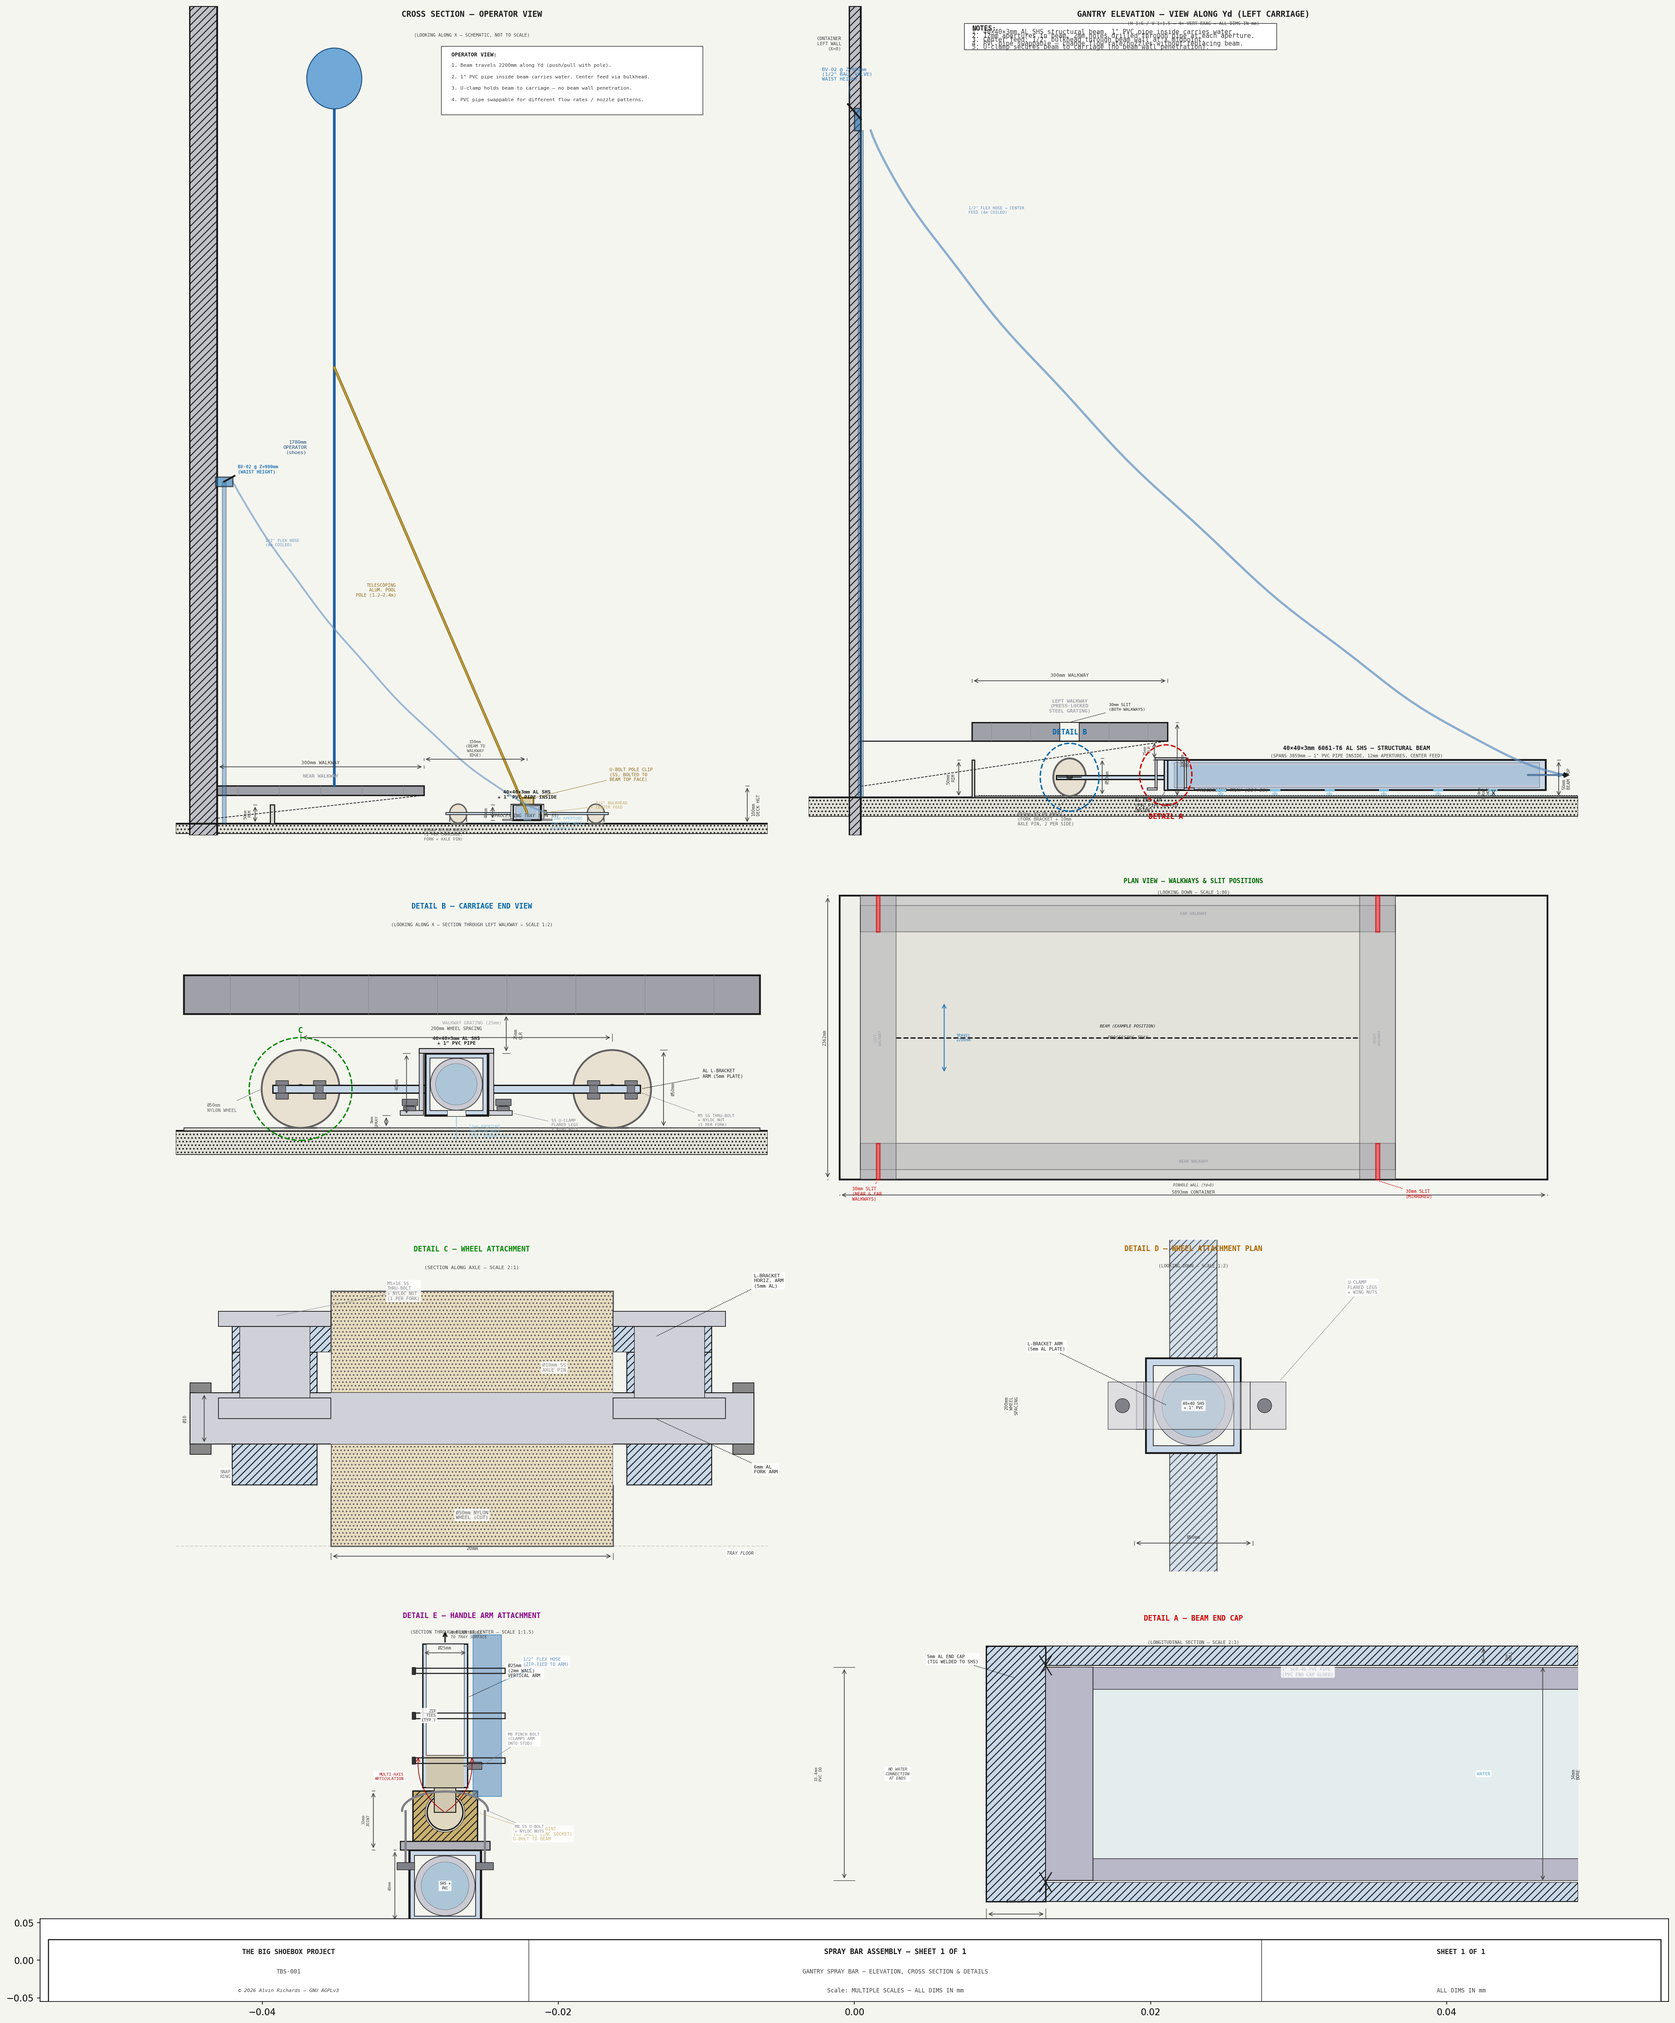
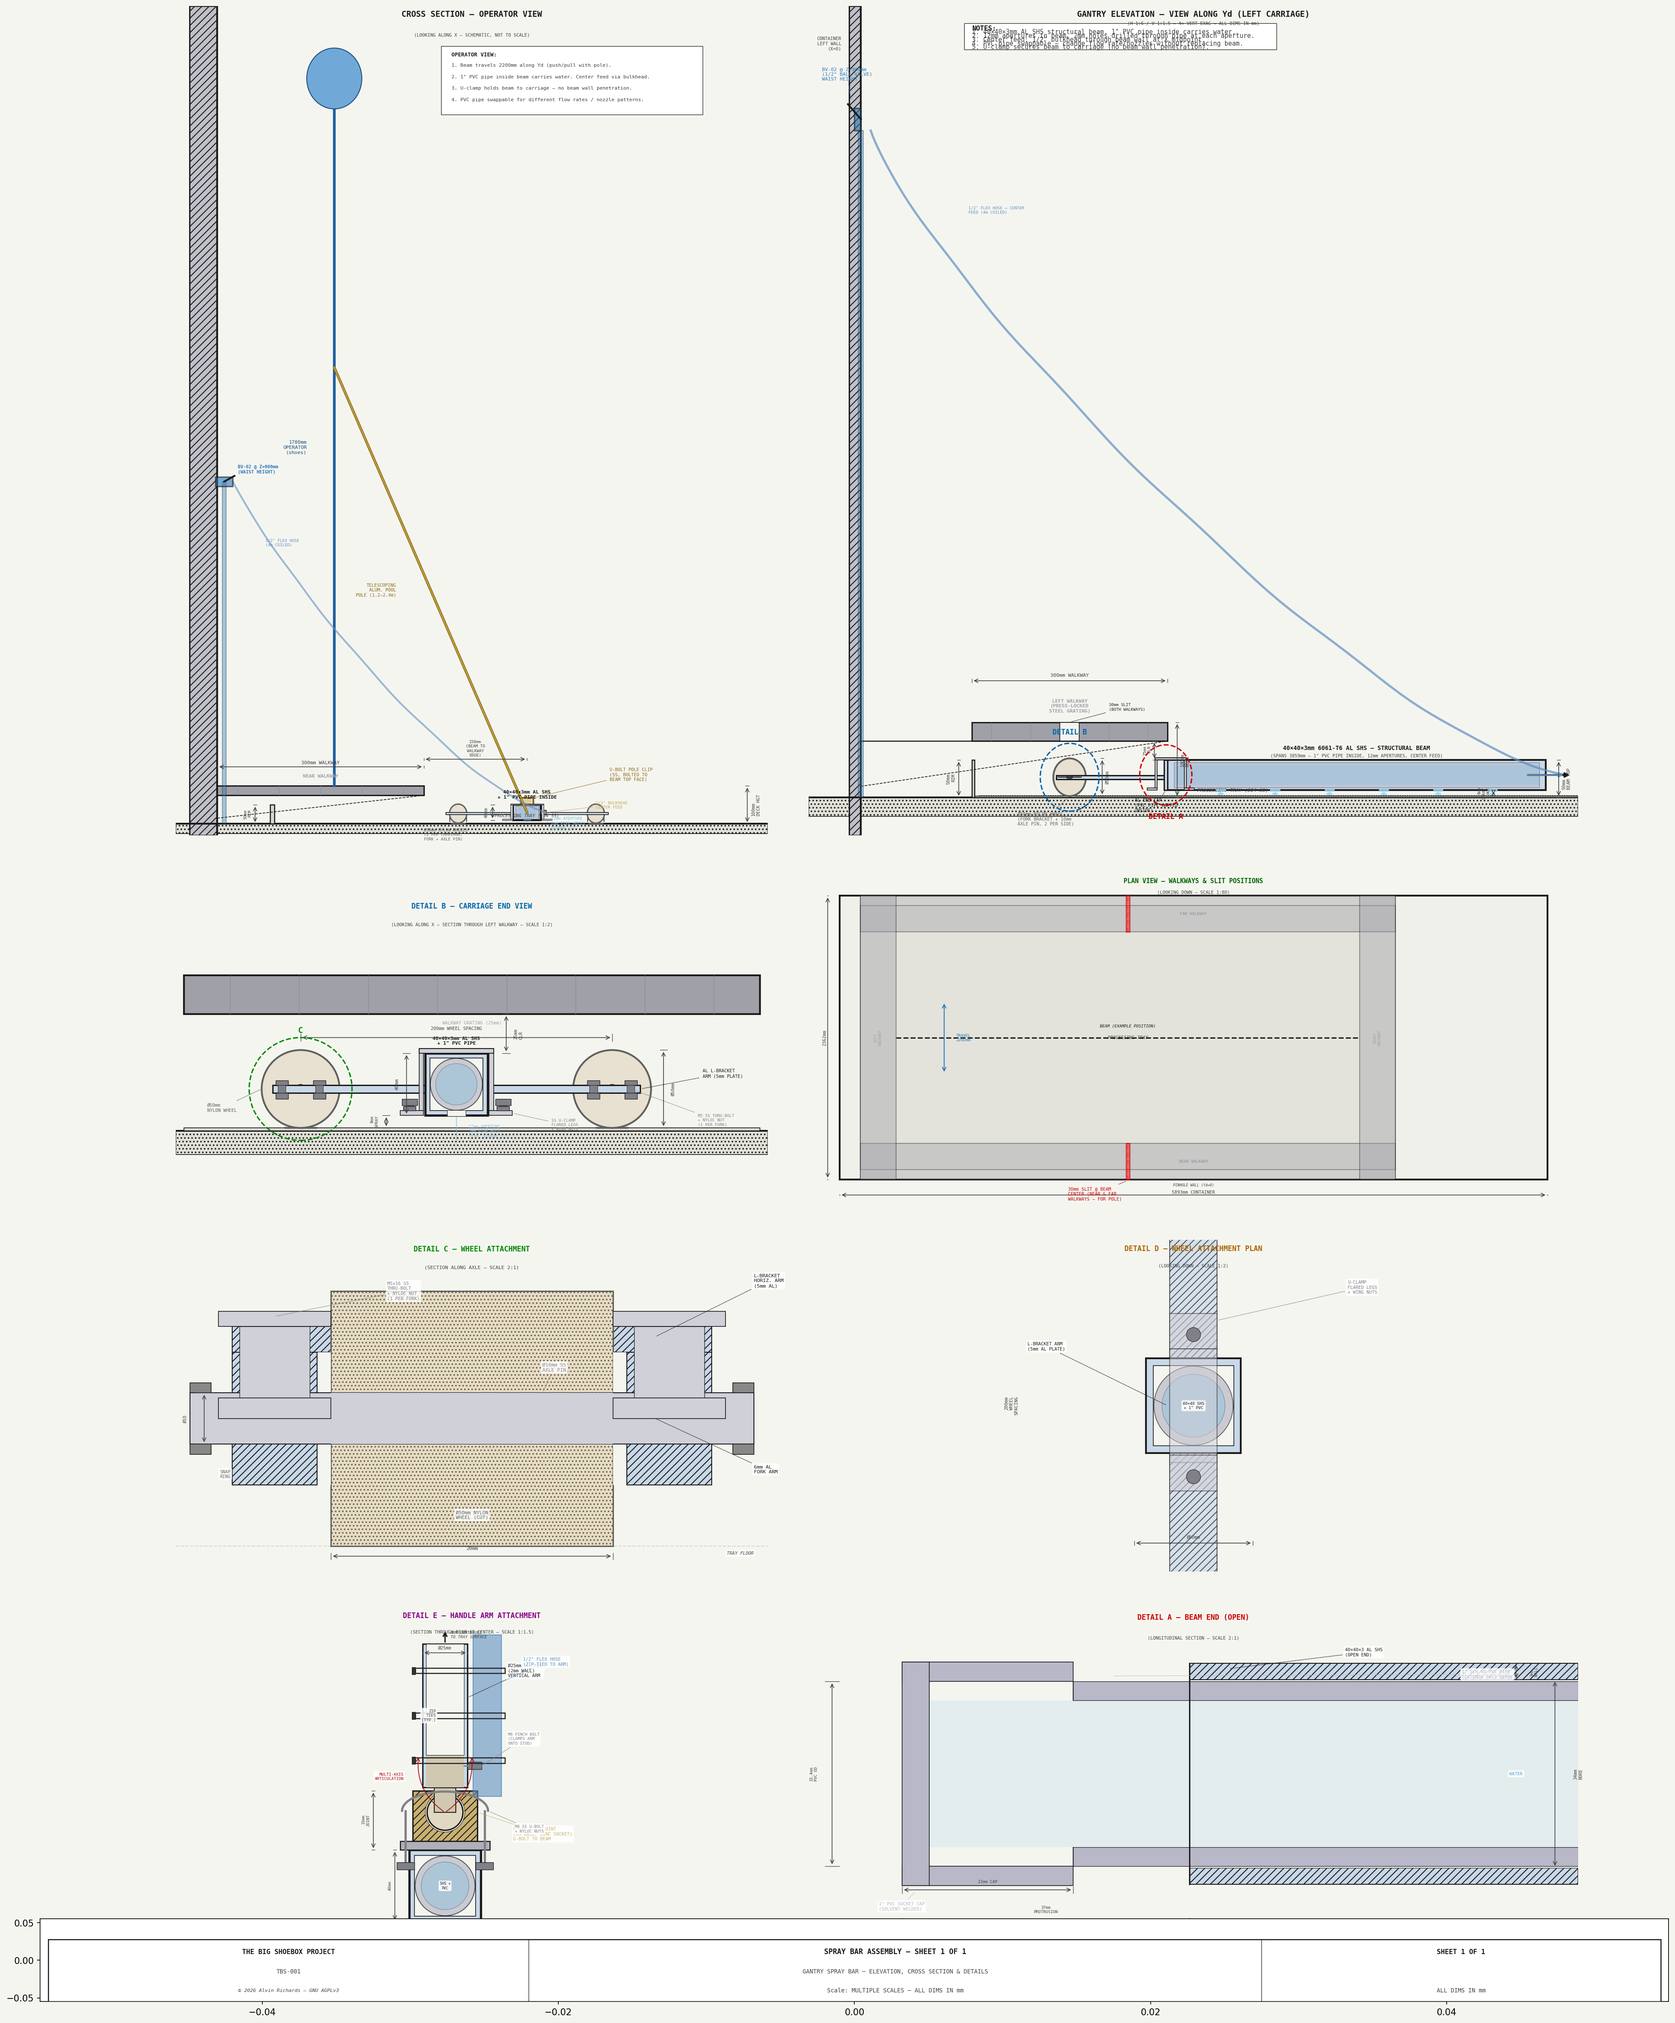
Detail A: open-ended beam with PVC socket cap; Detail D: fix U-clamp orientation; plan view: slits at beam center X on near/far walkways

diff --git a/generate_spray_bar_diagram.py b/generate_spray_bar_diagram.py
@@ -454,22 +454,33 @@ ax.text(sx(carr_cx), sz(carr_cz + 55),
 
 
 # ─────────────────────────────────────────────────────────────────────────────
-# Detail A: Beam end cap (longitudinal section)
-# Water now feeds at center — end is simply capped (no fitting).
-# X: along beam axis, - = outside, + = inside (bore)
+# Detail A: Beam end — open SHS with PVC pipe extending beyond
+# PVC socket cap fits over pipe OD, so pipe + cap protrude past beam end.
+# X: along beam axis, - = outside (past beam end), + = inside (bore)
 # Y: perpendicular to beam axis, 0 = beam centerline
 # ─────────────────────────────────────────────────────────────────────────────
 ax_a = fig.add_subplot(gs[3, 1])
 ax_a.set_facecolor(C_BG)
 ax_a.axis("off")
 
-d_xl, d_xr = -15, 50
-d_yb, d_yt = -26, 26
+PVC_CAP_LEN = 22        # socket cap engagement length over pipe OD
+PVC_CAP_WALL = 3.5      # cap wall thickness (thicker than pipe wall)
+PVC_EXTEND = 15         # pipe extension past beam end (before cap)
+pvc_od_h = PVC_OD / 2
+pvc_id_h = PVC_ID / 2
+cap_od_h = pvc_od_h + PVC_CAP_WALL
+
+beam_end_x = 0          # beam ends at X=0
+pipe_end_x = beam_end_x - PVC_EXTEND           # pipe sticks out
+cap_end_x = pipe_end_x - PVC_CAP_LEN           # cap extends further
+
+d_xl, d_xr = cap_end_x - 12, 50
+d_yb, d_yt = -30, 30
 ax_a.set_xlim(d_xl, d_xr)
 ax_a.set_ylim(d_yb, d_yt)
 
 ax_a.text((d_xl + d_xr) / 2, d_yt - 1,
-          "DETAIL A — BEAM END CAP",
+          "DETAIL A — BEAM END (OPEN)",
           ha="center", va="top", fontsize=8, color="#CC0000",
           fontweight="bold", **FONT, zorder=20)
 ax_a.text((d_xl + d_xr) / 2, d_yt - 5,
@@ -480,63 +491,78 @@ ax_a.text((d_xl + d_xr) / 2, d_yt - 5,
 _bbox_a = dict(boxstyle="round,pad=0.3", fc="white", ec="none", alpha=0.85)
 
 # ── SHS top wall — cut section, hatched ──────────────────────────────────
-ax_a.add_patch(Rectangle((5, 17), d_xr - 5, 3,
+ax_a.add_patch(Rectangle((beam_end_x, 17), d_xr - beam_end_x, 3,
                fc=C_ALUM_FILL, ec=C_FRAME, lw=1.0, hatch="///", zorder=3))
 # ── SHS bottom wall — cut section, hatched ───────────────────────────────
-ax_a.add_patch(Rectangle((5, -20), d_xr - 5, 3,
+ax_a.add_patch(Rectangle((beam_end_x, -20), d_xr - beam_end_x, 3,
                fc=C_ALUM_FILL, ec=C_FRAME, lw=1.0, hatch="///", zorder=3))
 
-# ── AL end cap plate (X=0–5, full SHS height, welded to SHS) ────────────
-ax_a.add_patch(Rectangle((0, -20), 5, 40,
-               fc=C_ALUM_FILL, ec=C_FRAME, lw=1.5, hatch="///", zorder=4))
-# Weld symbols at cap-to-SHS joint
-for wy in [17, -17]:
-    ax_a.plot([4.5, 5.5], [wy - 1.5, wy + 1.5],
-              color=C_FRAME, lw=1.2, zorder=6)
-    ax_a.plot([4.5, 5.5], [wy + 1.5, wy - 1.5],
-              color=C_FRAME, lw=1.2, zorder=6)
+# ── Open beam end face (vertical line at X=0) ───────────────────────────
+ax_a.plot([beam_end_x, beam_end_x], [-20, 20],
+          color=C_FRAME, lw=1.5, zorder=5)
 
-# ── Square bore ──────────────────────────────────────────────────────────
-ax_a.add_patch(Rectangle((5, -17), d_xr - 5, 34,
+# ── Square bore inside beam ──────────────────────────────────────────────
+ax_a.add_patch(Rectangle((beam_end_x, -17), d_xr - beam_end_x, 34,
                fc=C_BG, ec=C_FRAME, lw=0.5, zorder=3.5))
 
-# ── PVC pipe inside bore ─────────────────────────────────────────────────
-pvc_od_h = PVC_OD / 2
-pvc_id_h = PVC_ID / 2
-# PVC pipe walls (top and bottom in section)
-ax_a.add_patch(Rectangle((5, pvc_id_h), d_xr - 5, PVC_WALL,
+# ── PVC pipe inside bore + extending past beam end ──────────────────────
+# Top wall
+ax_a.add_patch(Rectangle((pipe_end_x, pvc_id_h), d_xr - pipe_end_x, PVC_WALL,
                fc=C_PVC, ec=C_FRAME, lw=0.6, zorder=4))
-ax_a.add_patch(Rectangle((5, -pvc_od_h), d_xr - 5, PVC_WALL,
+# Bottom wall
+ax_a.add_patch(Rectangle((pipe_end_x, -pvc_od_h), d_xr - pipe_end_x, PVC_WALL,
                fc=C_PVC, ec=C_FRAME, lw=0.6, zorder=4))
+# Pipe end face
+ax_a.plot([pipe_end_x, pipe_end_x], [-pvc_od_h, -pvc_id_h],
+          color=C_FRAME, lw=0.8, zorder=5)
+ax_a.plot([pipe_end_x, pipe_end_x], [pvc_id_h, pvc_od_h],
+          color=C_FRAME, lw=0.8, zorder=5)
 
-# PVC end cap (glued)
-ax_a.add_patch(Rectangle((5, -pvc_od_h), 4, PVC_OD,
-               fc=C_PVC, ec=C_FRAME, lw=0.8, zorder=4.5))
+# ── PVC socket cap (slides over pipe OD) ────────────────────────────────
+# Cap top wall
+ax_a.add_patch(Rectangle((cap_end_x, pvc_od_h),
+               PVC_CAP_LEN, PVC_CAP_WALL,
+               fc=C_PVC, ec=C_FRAME, lw=0.8, zorder=5))
+# Cap bottom wall
+ax_a.add_patch(Rectangle((cap_end_x, -cap_od_h),
+               PVC_CAP_LEN, PVC_CAP_WALL,
+               fc=C_PVC, ec=C_FRAME, lw=0.8, zorder=5))
+# Cap closed end (the actual cap face)
+ax_a.add_patch(Rectangle((cap_end_x, -cap_od_h),
+               PVC_CAP_WALL, cap_od_h * 2,
+               fc=C_PVC, ec=C_FRAME, lw=0.8, zorder=5.5))
 
-# Water inside PVC pipe
-ax_a.add_patch(Rectangle((9, -pvc_id_h), d_xr - 9, PVC_ID,
+# ── Water inside PVC pipe ────────────────────────────────────────────────
+# Water fills from cap end to bore end (entire pipe interior)
+water_start = cap_end_x + PVC_CAP_WALL
+ax_a.add_patch(Rectangle((water_start, -pvc_id_h),
+               d_xr - water_start, PVC_ID,
                fc=C_WATER, ec="none", alpha=0.15, zorder=3.8))
 
 # ── Labels ────────────────────────────────────────────────────────────────
-leader(ax_a, 2.5, 15, -5, d_yt - 8,
-       "5mm AL END CAP\n(TIG WELDED TO SHS)",
+leader(ax_a, beam_end_x + 5, 19, beam_end_x + 20, d_yt - 8,
+       "40×40×3 AL SHS\n(OPEN END)",
        fs=5, color=C_FRAME, font=FONT, zorder=20, bbox=_bbox_a)
 
-leader(ax_a, 7, pvc_od_h, 25, d_yt - 10,
-       "1\" Sch 40 PVC PIPE\n(PVC END CAP GLUED)",
+leader(ax_a, pipe_end_x + 5, pvc_od_h + 1, d_xr - 15, d_yt - 12,
+       "1\" Sch 40 PVC PIPE\n(EXTENDS PAST BEAM)",
+       fs=5, color=C_PVC, font=FONT, zorder=20, bbox=_bbox_a)
+
+leader(ax_a, cap_end_x + PVC_CAP_WALL / 2, -cap_od_h - 1,
+       cap_end_x - 3, d_yb + 6,
+       "1\" PVC SOCKET CAP\n(SOLVENT WELDED)",
        fs=5, color=C_PVC, font=FONT, zorder=20, bbox=_bbox_a)
 
 ax_a.text(d_xr - 8, 0, "WATER",
           ha="center", va="center", fontsize=5, color=C_WATER,
           fontweight="bold", bbox=_bbox_a, **FONT, zorder=15)
 
-ax_a.text((d_xl + 0) / 2, 0, "NO WATER\nCONNECTION\nAT ENDS",
-          ha="center", va="center", fontsize=4.5, color=C_DIM,
-          style="italic", bbox=_bbox_a, **FONT, zorder=15)
-
 # ── Dimensions ────────────────────────────────────────────────────────────
-draw_dim_h(ax_a, 0, 5, d_yb + 4,
-           "5mm CAP", offset=3, fs=5, font=FONT)
+draw_dim_h(ax_a, cap_end_x, beam_end_x, d_yb + 3,
+           f"{PVC_EXTEND + PVC_CAP_LEN}mm\nPROTRUSION", offset=3, fs=4.5, font=FONT)
+
+draw_dim_h(ax_a, cap_end_x, pipe_end_x, d_yb + 9,
+           f"{PVC_CAP_LEN}mm CAP", offset=2, fs=4.5, font=FONT)
 
 draw_dim_v(ax_a, d_xr - 3, -17, 17,
            "34mm\nBORE", offset=4, fs=5, font=FONT, right=True)
@@ -1337,30 +1363,29 @@ ax_d.add_patch(Rectangle((px(-arm_w_x / 2), py_d(-arm_half_span)),
                            fc=C_ALUM_FILL, ec=C_FRAME, lw=1.0,
                            hatch="///", alpha=0.7, zorder=4))
 
-# ── U-clamp with flared legs (plan view — wraps beam in X direction) ────
-uc_span_x = BEAM_W + 2 * UC_T + 2 * UC_GAP   # top plate span in X
-uc_mat_yd = 20                                  # clamp material width in Yd
-# Top plate (visible from above — spans X across beam)
-ax_d.add_patch(Rectangle((px(-uc_span_x / 2), py_d(-uc_mat_yd / 2)),
-                           uc_span_x / SC_D, uc_mat_yd / SC_D,
+# ── U-clamp with flared legs (plan view — wraps beam in Yd, matching Detail B) ─
+uc_w_yd_top = BEAM_W + 2 * UC_T + 2 * UC_GAP  # top plate span in Yd = 48mm
+# Top plate (visible from above — spans Yd across beam)
+ax_d.add_patch(Rectangle((px(-arm_w_x / 2), py_d(-uc_w_yd_top / 2)),
+                           arm_w_x / SC_D, uc_w_yd_top / SC_D,
                            fc=C_UCLAMP, ec=C_FRAME, lw=1.0, alpha=0.5, zorder=6))
-# Flared feet (extend in X beyond top plate, sit on L-bracket arm)
+# Flared feet (extend outward in Yd beyond top plate)
 for side in [-1, 1]:
-    foot_x = side * (BEAM_W / 2 + UC_GAP + UC_T)
+    foot_yd = side * (BEAM_W / 2 + UC_GAP + UC_T)
     if side < 0:
-        foot_x -= UC_FLARE
-    ax_d.add_patch(Rectangle((px(foot_x), py_d(-uc_mat_yd / 2)),
-                               (UC_FLARE + UC_T) / SC_D, uc_mat_yd / SC_D,
+        foot_yd -= UC_FLARE
+    ax_d.add_patch(Rectangle((px(-arm_w_x / 2), py_d(foot_yd)),
+                               arm_w_x / SC_D, (UC_FLARE + UC_T) / SC_D,
                                fc=C_UCLAMP, ec=C_FRAME, lw=0.8, alpha=0.6, zorder=6))
 
 # Bolt holes through flared feet (circles in plan = bolt going vertically)
 for side in [-1, 1]:
-    bolt_x = side * (BEAM_W / 2 + UC_GAP + UC_T + UC_FLARE / 2)
-    ax_d.add_patch(Circle((px(bolt_x), py_d(0)),
+    bolt_yd = side * (BEAM_W / 2 + UC_GAP + UC_T + UC_FLARE / 2)
+    ax_d.add_patch(Circle((px(0), py_d(bolt_yd)),
                             3 / SC_D,
                             fc=C_BOLT, ec=C_FRAME, lw=0.5, zorder=8))
 
-leader(ax_d, px(BEAM_W / 2 + UC_GAP + UC_T + UC_FLARE), py_d(uc_mat_yd / 2),
+leader(ax_d, px(arm_w_x / 2), py_d(BEAM_W / 2 + UC_GAP + UC_T + UC_FLARE),
        px(D_X_HI - 15), py_d(BEAM_W / 2 + 30),
        "U-CLAMP\nFLARED LEGS\n+ WING NUTS",
        fs=5, color=C_BOLT, font=FONT, zorder=20, bbox=_bbox_d)
@@ -1489,37 +1514,33 @@ ax_p.text(ppx(WALKWAY_RIGHT_X + WALKWAY_W / 2), ppy(C_WID / 2),
           "RIGHT\nWALKWAY", ha="center", va="center",
           fontsize=4, color=C_GRATE, rotation=90, **FONT, zorder=6)
 
-# ── Slits in near walkway (for boom arm to slide through) ───────────────
-# Left carriage slit
-slit_x_l = CARRIAGE_X_L - SLIT_WIDTH / 2
-ax_p.add_patch(Rectangle((ppx(slit_x_l), ppy(0)),
+# ── Slits in near & far walkways (for pole/arm to slide through) ─────────
+# Pole is at beam center X — single slit at tray centerline on each walkway
+pole_x = (PROC_OPEN_X_L + PROC_OPEN_X_R) / 2
+slit_x = pole_x - SLIT_WIDTH / 2
+
+# Near walkway slit
+ax_p.add_patch(Rectangle((ppx(slit_x), ppy(0)),
                            SLIT_WIDTH / SC_P, WALKWAY_W / SC_P,
                            fc="#FF4444", ec="#CC0000", lw=1.5, alpha=0.6, zorder=7))
-# Right carriage slit (mirrored position in right walkway)
-carriage_x_r = WALKWAY_RIGHT_X + WALKWAY_W / 2
-slit_x_r = carriage_x_r - SLIT_WIDTH / 2
-ax_p.add_patch(Rectangle((ppx(slit_x_r), ppy(0)),
+# Far walkway slit (same X, mirrored Yd)
+ax_p.add_patch(Rectangle((ppx(slit_x), ppy(WALKWAY_FAR_YD)),
                            SLIT_WIDTH / SC_P, WALKWAY_W / SC_P,
                            fc="#FF4444", ec="#CC0000", lw=1.5, alpha=0.6, zorder=7))
 
-# ── Slits in far walkway ────────────────────────────────────────────────
-ax_p.add_patch(Rectangle((ppx(slit_x_l), ppy(WALKWAY_FAR_YD)),
-                           SLIT_WIDTH / SC_P, WALKWAY_W / SC_P,
-                           fc="#FF4444", ec="#CC0000", lw=1.5, alpha=0.6, zorder=7))
-ax_p.add_patch(Rectangle((ppx(slit_x_r), ppy(WALKWAY_FAR_YD)),
-                           SLIT_WIDTH / SC_P, WALKWAY_W / SC_P,
-                           fc="#FF4444", ec="#CC0000", lw=1.5, alpha=0.6, zorder=7))
-
-# Slit labels
-leader(ax_p, ppx(slit_x_l + SLIT_WIDTH / 2), ppy(-10),
-       ppx(slit_x_l - 200), ppy(-120),
-       f"{SLIT_WIDTH}mm SLIT\n(NEAR & FAR\nWALKWAYS)",
+# Slit label
+leader(ax_p, ppx(pole_x), ppy(-10),
+       ppx(pole_x - 500), ppy(-120),
+       f"{SLIT_WIDTH}mm SLIT @ BEAM\nCENTER (NEAR & FAR\nWALKWAYS — FOR POLE)",
        fs=5, color="#CC0000", font=FONT, zorder=20)
 
-leader(ax_p, ppx(slit_x_r + SLIT_WIDTH / 2), ppy(-10),
-       ppx(slit_x_r + 250), ppy(-120),
-       f"{SLIT_WIDTH}mm SLIT\n(MIRRORED)",
-       fs=5, color="#CC0000", font=FONT, zorder=20)
+# Centerline through slits (showing pole alignment)
+ax_p.plot([ppx(pole_x), ppx(pole_x)],
+          [ppy(-5), ppy(WALKWAY_W + 5)],
+          color="#CC0000", lw=0.8, ls="-.", zorder=6.5)
+ax_p.plot([ppx(pole_x), ppx(pole_x)],
+          [ppy(WALKWAY_FAR_YD - 5), ppy(C_WID + 5)],
+          color="#CC0000", lw=0.8, ls="-.", zorder=6.5)
 
 # ── Beam position (example — dashed line across tray) ────────────────────
 beam_example_yd = PROC_TRAY_YD_NEAR + PROC_TRAY_D / 2
